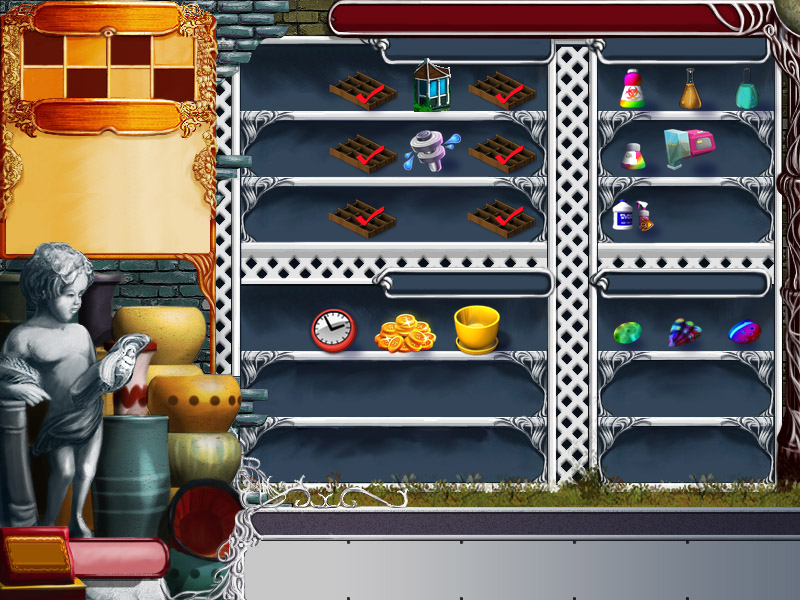
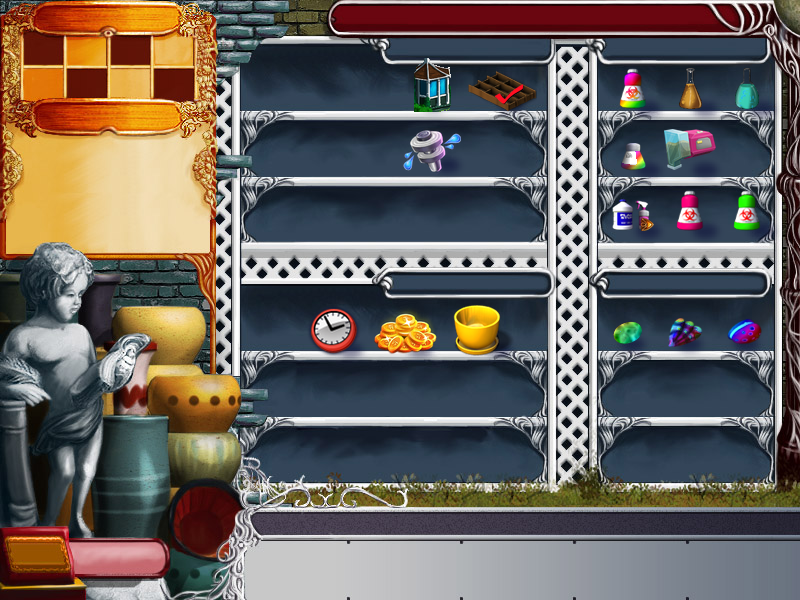
Extra Chemical Slots: the page arrows beside the Tools box, off its plaque

diff --git a/tests/test_chem_slots.py b/tests/test_chem_slots.py
@@ -55,8 +55,10 @@ SIDECAR = DOCS + "\\LDW\\Plant Tycoon\\Plant Tycoon Fix Patcher Data\\Extra Chem
 # Page 2: the same columns, row 1 drawn at y 126 (hit 136..184), row 2 at 173 (hit 185..253).
 COL_X = [2 + 45 * c for c in range(4)]
 ROW_Y = (126, 173)
-ARROW = (136, 104, 24, 24)               # x, y, w, h
-PAGE_TEXT = (100, 107)
+ARROW = (199, 178, 24, 24)               # the right arrow: x, y, w, h
+ARROW_LEFT = (0, 178, 24, 24)            # the left arrow, drawn
+ARROW_LEFT_HIT = (0, 178, 18, 24)        # and pressed: left of every tool and slot
+PAGE_TEXT = (201, 204)                   # under the right arrow
 
 
 def page1_point(i: int) -> tuple[int, int]:
@@ -467,13 +469,16 @@ class InstallTests(ChemSlotsCase):
 
 @_needs()
 class PageTests(ChemSlotsCase):
-    ARROW_POINTS = ((ARROW[0], ARROW[1]), (ARROW[0] + ARROW[2] - 1, ARROW[1] + ARROW[3] - 1), (148, 116))
+    ARROW_POINTS = ((ARROW[0], ARROW[1]), (ARROW[0] + ARROW[2] - 1, ARROW[1] + ARROW[3] - 1), (211, 190),
+                    (0, ARROW_LEFT[1]), (ARROW_LEFT_HIT[2] - 1, ARROW_LEFT[1] + ARROW_LEFT[3] - 1), (8, 190))
 
     def test_the_arrow_turns_the_page_and_shows_the_page_number(self) -> None:
         g = self.game()
         drawn = g.draw()
-        self.assertIn((SHEET_CHEMICALS, 38, ARROW[0], ARROW[1]), drawn)          # the right arrow on page 1
-        self.assertEqual([c[1][:3] for c in g.calls if c[0] == "text"], [("1/2", 101, 108), ("1/2", 100, 107)])
+        for frame, at in ((38, ARROW), (39, ARROW_LEFT)):                      # both arrows on page 1
+            self.assertIn((SHEET_CHEMICALS, frame, at[0], at[1]), drawn)
+        self.assertEqual([c[1][:3] for c in g.calls if c[0] == "text"],
+                         [("1/2", PAGE_TEXT[0] + 1, PAGE_TEXT[1] + 1), ("1/2", *PAGE_TEXT)])
         for x, y in self.ARROW_POINTS:
             with self.subTest(at=(x, y)):
                 g.calls.clear()
@@ -484,9 +489,11 @@ class PageTests(ChemSlotsCase):
         g = self.game()
         g.press(*self.ARROW_POINTS[2])
         drawn = g.draw()
-        self.assertIn((SHEET_CHEMICALS, 39, ARROW[0], ARROW[1]), drawn)          # the left arrow on page 2
+        for frame, at in ((38, ARROW), (39, ARROW_LEFT)):                      # and on page 2
+            self.assertIn((SHEET_CHEMICALS, frame, at[0], at[1]), drawn)
         self.assertEqual([c[1][0] for c in g.calls if c[0] == "text"], ["2/2", "2/2"])
-        for x, y in ((ARROW[0] - 1, 116), (ARROW[0] + ARROW[2], 116), (148, ARROW[1] - 1), (148, ARROW[1] + ARROW[3])):
+        for x, y in ((ARROW[0] - 1, 190), (ARROW[0] + ARROW[2], 190), (211, ARROW[1] - 1), (211, ARROW[1] + ARROW[3]),
+                     (ARROW_LEFT_HIT[2], 190), (8, ARROW_LEFT[1] - 1), (8, ARROW_LEFT[1] + ARROW_LEFT[3])):
             g.press(x, y)
             self.assertEqual(g.page(), 1, (x, y))
 
@@ -495,7 +502,7 @@ class PageTests(ChemSlotsCase):
         drawn = g.draw()
         self.assertFalse([d for d in drawn if d[1] in (38, 39)])
         self.assertFalse([c for c in g.calls if c[0] == "text"])
-        g.press(148, 116)
+        g.press(211, 190)
         self.assertEqual(g.page(), 0)
         self.assertTrue(g.tools_drawn())
 
@@ -503,12 +510,12 @@ class PageTests(ChemSlotsCase):
         g = self.game()
         self.assertTrue(g.tools_drawn())
         self.assertNotEqual(g.call("@tool_hit@16", 40, 150, ecx=g.scene) & 0xFFFFFFFF, 0xFFFFFFFF)   # the soil
-        g.press(148, 116)
+        g.press(211, 190)
         self.assertFalse(g.tools_drawn())
         for k in range(4):
             self.assertEqual(g.call("@tool_hit@16", 40 + 45 * k, 150, ecx=g.scene) & 0xFFFFFFFF, 0xFFFFFFFF)
         g.emu.write32(g.state + HELD, 2)                     # a tool in the hand stays there through the pages
-        g.press(148, 116)
+        g.press(211, 190)
         self.assertEqual((g.page(), g.held()), (0, 2))
 
     def test_page_two_draws_its_eight_slots_in_both_rows(self) -> None:
@@ -516,12 +523,12 @@ class PageTests(ChemSlotsCase):
         for e in range(8):
             g.put2(e, 27 + e, 1 + e)
         g.put(0, 36, 3)
-        g.press(148, 116)
+        g.press(211, 190)
         drawn = g.draw()
         for e in range(8):
             self.assertIn((SHEET_CHEMICALS, 2 * (27 + e) - 54, COL_X[e % 4], ROW_Y[e // 4]), drawn)
         self.assertNotIn((SHEET_CHEMICALS, 2 * 36 - 54, COL_X[0], 173), drawn)    # page 1's bottle is not
-        g.press(148, 116)
+        g.press(211, 190)
         drawn = g.draw()
         self.assertIn((SHEET_CHEMICALS, 2 * 36 - 54, COL_X[0], 173), drawn)
         self.assertFalse([d for d in drawn if d[1] == 2 * 27 - 54])
@@ -532,21 +539,21 @@ class PageTests(ChemSlotsCase):
         g.press(*page1_point(1))
         self.assertEqual(g.held(), 6)
         g.mouse(1, 100, 100)
-        g.mouse(1, 145, 110)                                 # onto the arrow
+        g.mouse(1, 210, 185)                                 # onto the arrow
         self.assertEqual(g.page(), 1)
-        g.mouse(1, 150, 115)                                 # still on it: no second turn
+        g.mouse(1, 212, 188)                                 # still on it: no second turn
         self.assertEqual(g.page(), 1)
         g.mouse(1, 120, 100)
-        g.mouse(1, 145, 110)                                 # off and on again: back
+        g.mouse(1, 210, 185)                                 # off and on again: back
         self.assertEqual(g.page(), 0)
         self.assertEqual(g.held(), 6)
         g.emu.write32(g.state + HELD, 0)
         g.mouse(1, 120, 100)
-        g.mouse(1, 145, 110)                                 # an empty hand only turns it by a click
+        g.mouse(1, 210, 185)                                 # an empty hand only turns it by a click
         self.assertEqual(g.page(), 0)
         g.emu.write32(g.state + HELD, 3)
         g.mouse(1, 120, 100)
-        g.mouse(1, 145, 110)                                 # nor does a tool
+        g.mouse(1, 210, 185)                                 # nor does a tool
         self.assertEqual(g.page(), 0)
 
 
@@ -603,7 +610,7 @@ class TrayTests(ChemSlotsCase):
                     page_one = g.tray()
                     e = (chemical - 27) % 8
                     g.put2(e, chemical, 2)
-                    g.press(148, 116)
+                    g.press(211, 190)
                     self.assertEqual(g.press(*page2_point(e)), 1)
                     k = g.held() - 5
                     self.assertIn(k, range(4))
@@ -624,7 +631,7 @@ class TrayTests(ChemSlotsCase):
         g = self.game()
         g.put(0, 27, 1)
         g.put2(5, 33, 4)
-        g.press(148, 116)
+        g.press(211, 190)
         g.press(*page2_point(5))
         k = g.held() - 5
         self.assertEqual(g.tray()[k], (33, 4))
@@ -643,7 +650,7 @@ class TrayTests(ChemSlotsCase):
             for k in range(4):
                 g.put(k, 27 + k, 1)
             g.put2(2, 36, 3)
-            g.press(148, 116)
+            g.press(211, 190)
             g.press(*page2_point(2))
             self.assertNotEqual(g.held(), 0)
             g.activate(on)
@@ -671,13 +678,13 @@ class MoveTests(ChemSlotsCase):
                     if there:
                         put(dst, *there)
                     if src_page2:
-                        g.press(148, 116)
+                        g.press(211, 190)
                         g.press(*page2_point(src - 4))
                     else:
                         g.press(*page1_point(src))
                     self.assertNotEqual(g.held(), 0)
                     if src_page2 != dst_page2:
-                        g.press(148, 116)                             # the arrow, the bottle still in hand
+                        g.press(211, 190)                             # the arrow, the bottle still in hand
                     g.calls.clear()
                     g.press(*(page2_point(dst - 4) if dst_page2 else page1_point(dst)))
                     self.assertEqual((g.held(), g.flying()), (0, -1))
@@ -693,7 +700,7 @@ class MoveTests(ChemSlotsCase):
         g = self.game()
         g.put(3, 29, 4)
         g.press(*page1_point(3))                              # picked up
-        g.press(148, 116)                                     # page 2, still held
+        g.press(211, 190)                                     # page 2, still held
         g.mouse(3, *page2_point(7))                           # released over page 2's last slot
         g.draw()
         self.assertEqual(g.held(), 0)
@@ -716,7 +723,7 @@ class TooltipTests(ChemSlotsCase):
         tips = g.visible_tips()
         self.assertEqual(tips, {(20, 173, 47, 253): "Chemical 30\n2 doses left",
                                 (110, 173, 137, 253): "Revival Potion\n1 dose left"})
-        g.press(148, 116)
+        g.press(211, 190)
         g.draw()
         self.assertEqual(g.visible_tips(), {(20, 136, 47, 184): "Radioactive Plant Formula\n3 doses left",
                                             (65, 185, 92, 253): "Chemical 27\n4 doses left"})
@@ -748,7 +755,7 @@ class SidecarTests(ChemSlotsCase):
         g.put(0, 27, 1)
         g.put2(1, 30, 2)
         g.put2(6, BOMB, 3)
-        g.press(148, 116)
+        g.press(211, 190)
         g.press(*page2_point(6))                              # held while the game saves
         k = g.held() - 5
         g.save(0)                                             # the settings file: no sidecar
@@ -1087,7 +1094,7 @@ class TrashTests(ChemSlotsCase):
                     g.put(k, 27 + k, 2)
                 g.put2(4, chemical, 3)
                 g.put2(5, 33, 1)
-                g.press(148, 116)
+                g.press(211, 190)
                 g.press(*page2_point(4))
                 g.calls.clear()
                 self.assertEqual(self.trash(g), 1)
@@ -1100,7 +1107,7 @@ class TrashTests(ChemSlotsCase):
     def test_the_games_own_chemicals_stay_in_the_hand(self) -> None:
         g = self.game()
         g.put2(2, 30, 3)
-        g.press(148, 116)
+        g.press(211, 190)
         g.press(*page2_point(2))
         held = g.held()
         self.assertEqual(self.trash(g), 0)
@@ -1266,8 +1273,10 @@ class ArtAndManifestTests(unittest.TestCase):
         rebuilt = B.formula_bottle(EXE.parent / "Images")
         self.assertEqual(rebuilt.tobytes(), sheet.tobytes())
 
-    def test_the_arrow_and_page_number_are_clear_of_everything(self) -> None:
+    def test_the_arrows_and_page_number_are_clear_of_everything(self) -> None:
         arrow = (ARROW[0], ARROW[1], ARROW[0] + ARROW[2] - 1, ARROW[1] + ARROW[3] - 1)
+        left = (ARROW_LEFT_HIT[0], ARROW_LEFT_HIT[1], ARROW_LEFT_HIT[0] + ARROW_LEFT_HIT[2] - 1,
+                ARROW_LEFT_HIT[1] + ARROW_LEFT_HIT[3] - 1)
         import render_extra_greenhouses_preview as RG
         size = RG.words(EXE.parent, EXE.read_bytes(), "2/2").size                    # in PTfontsmall, + shadow
         text = (PAGE_TEXT[0], PAGE_TEXT[1], PAGE_TEXT[0] + size[0], PAGE_TEXT[1] + size[1])
@@ -1276,10 +1285,11 @@ class ArtAndManifestTests(unittest.TestCase):
         seeds = [(21 + 43 * c, 30 + 34 * r, 64 + 43 * c, 64 + 34 * r) for c in range(4) for r in range(2)]   # 0x423A10
         side_arrows = [(220, 236, 269, 285)]                                             # Extra Greenhouses
         buttons = [(47, 293, 94, 330), (130, 287, 187, 324)]                              # 0x42614A, 0x42629C
-        for thing in (arrow, text):
+        for thing in (arrow, left, text):
             for other in tools + slots + seeds + side_arrows + buttons:
                 self.assertFalse(overlaps(thing, other), (thing, other))
         self.assertFalse(overlaps(arrow, text))
+        self.assertLess(ARROW_LEFT[0] + ARROW_LEFT[2], 25)                               # left of the soil's picture
 
     def test_the_setting(self) -> None:
         manifest = json.loads(MANIFEST.read_text(encoding="utf-8"))

diff --git a/native/ftfp_chem_slots/ftfp_chem_slots.c b/native/ftfp_chem_slots/ftfp_chem_slots.c
@@ -8,10 +8,10 @@
    byte, chemical id, doses), and a held chemical is state + 0x56C = 5 + its
    slot.  Once "Extra Chemical Slots" is bought on the store's Upgrades view
    (Store Upgrades and Items.dll, $10,000, $0 with Free upgrades), a small
-   gold arrow on the Tools box's plaque turns to page 2: eight more chemical
+   gold arrow on either side of the Tools box turns to page 2: eight more chemical
    slots in both rows of the grid (the tools stay on page 1; a tool already
-   in the hand stays there).  Clicking the arrow, or carrying a chemical over
-   it, turns the page back.  12 chemical slots in all.
+   in the hand stays there).  Clicking an arrow, or carrying a chemical over
+   one, turns the page back.  12 chemical slots in all.
 
    HOW.  Every page-2 slot is a stock slot while it is used: picking one up
    (0x4260A9, the press's tray hit) moves its record into a stock record --
@@ -93,14 +93,20 @@ static const int ROW_HIT_BOTTOM[2] = { 184, 253 };
 #define STOCK_HIT_BOTTOM 253
 #define FLIGHT_OFFSET 35                /* 0x4244C0 aims a bottle at its picture's place + 35 */
 
-/* The arrow: on the plaque between the seed tray (y <= 98) and the tools (y >= 136),
-   right of its middle, clear of its gold scrollwork; nothing else on the plaque takes a click. */
-#define ARROW_X 136
-#define ARROW_Y 104
+/* The arrows (the owner, 2026-10-31: beside the boxes, as Extra Greenhouses' are), one on each
+   side of the Tools box, vertically centred on its grid (y 136..253), drawn over the panel's gold
+   frame.  Left: x 0-23, pressed only at x 0-17, left of every tool (0x423AA0: from x 18) and slot
+   (from x 20); the soil's picture starts at x 25.  Right: x 199-222, right of the last tool (to
+   x 198), above Extra Greenhouses' left arrow (x 220-269 from y 236).  Either one turns the page.
+   The page number sits under the right arrow; the plaque keeps its "Tools". */
+#define ARROW_LEFT_X 0
+#define ARROW_LEFT_HIT_W 18
+#define ARROW_RIGHT_X 199
+#define ARROW_Y 178
 #define ARROW_W 24
 #define ARROW_H 24
-#define PAGE_TEXT_X 100                 /* "1/2" / "2/2" left of the arrow, on the plaque */
-#define PAGE_TEXT_Y 107
+#define PAGE_TEXT_X 201                 /* "1/2" / "2/2" under the right arrow */
+#define PAGE_TEXT_Y 204
 #define TEXT_WHITE 0xFFFFFFFFu
 #define TEXT_SHADOW 0xFF000000u
 
@@ -291,7 +297,9 @@ NOINLINE static int slot_at(int x, int y) {
 }
 
 static int in_arrow(int x, int y) {
-    return x >= ARROW_X && x < ARROW_X + ARROW_W && y >= ARROW_Y && y < ARROW_Y + ARROW_H;
+    if (y < ARROW_Y || y >= ARROW_Y + ARROW_H) return 0;
+    return (x >= ARROW_LEFT_X && x < ARROW_LEFT_X + ARROW_LEFT_HIT_W) ||
+           (x >= ARROW_RIGHT_X && x < ARROW_RIGHT_X + ARROW_W);
 }
 
 static int draw_x(int g) { return COL_DRAW_X(g < STOCK_SLOTS ? g : (g - STOCK_SLOTS) % STOCK_SLOTS); }
@@ -500,7 +508,7 @@ static void draw_bottle(char *scene, const chem_record *r, int x, int y) {
     draw_sprite(AT(scene, SC_SPRITES, void *), 0, SHEET_CHEMICALS, 2 * r->id - 54, x, y, 1.0f, 100, 1);
 }
 
-/* "1/2" or "2/2" left of the arrow, in the game's small font (PTfontsmall), white on a black
+/* "1/2" or "2/2" under the right arrow, in the game's small font (PTfontsmall), white on a black
    shadow as the greenhouse counts are written. */
 static void draw_page_number(void) {
     void *graphics = graphics_get();
@@ -533,8 +541,8 @@ NOINLINE static void __cdecl tray_draw(void *tray_obj, char *scene, int skip) {
             draw_bottle(scene, logical(state, STOCK_SLOTS + e), draw_x(STOCK_SLOTS + e), draw_y(STOCK_SLOTS + e));
         }
     }
-    draw_sprite(AT(scene, SC_SPRITES, void *), 0, SHEET_CHEMICALS, page == 0 ? ARROW_RIGHT_FRAME : ARROW_LEFT_FRAME,
-                ARROW_X, ARROW_Y, 1.0f, 100, 1);
+    draw_sprite(AT(scene, SC_SPRITES, void *), 0, SHEET_CHEMICALS, ARROW_LEFT_FRAME, ARROW_LEFT_X, ARROW_Y, 1.0f, 100, 1);
+    draw_sprite(AT(scene, SC_SPRITES, void *), 0, SHEET_CHEMICALS, ARROW_RIGHT_FRAME, ARROW_RIGHT_X, ARROW_Y, 1.0f, 100, 1);
     draw_page_number();
     refresh_tips(scene);
 }

diff --git a/src/game_mechanics_plant.py b/src/game_mechanics_plant.py
@@ -671,7 +671,7 @@ CHEMICALS = (
         "(0x4277A3, made the first time you point at that slot). The tray is "
         "shared by every greenhouse and shown in the store too.",
         patched=(("extra_chemical_slots", "once Extra Chemical Slots is bought on the store's Upgrades "
-                  "screen ($10,000), a gold arrow on the Tools box's plaque turns to a second page of 8 "
+                  "screen ($10,000), a gold arrow on either side of the Tools box turns to a second page of 8 "
                   "slots in both rows of the box (the tools stay on page 1): 12 chemical slots in all. "
                   "Buying stacks onto the same chemical on either page, else fills the first free slot "
                   "of page 1, then of page 2; the tray is full only when all 12 are. Every slot's "

diff --git a/scripts/build_chem_slots_assets.py b/scripts/build_chem_slots_assets.py
@@ -13,7 +13,7 @@ scale 1: the plant game's draw (0x4208F0) ignores its scale argument.
   standing on that line, inside the item's click rectangle (cell x 12..57, y 8..60).
 * Row 19, frames 38 and 39: the greenhouse's page arrows, the game's gold rightarrow.png and
   leftarrow.png (first frame, their 45 x 45 art) shrunk to ARROW_SIZE and set at the cell's top
-  left; Extra Chemical Slots.dll draws the cell at (136, 104), on the Tools box's plaque.
+  left; Extra Chemical Slots.dll draws them at (0, 178) and (199, 178), beside the Tools box.
 """
 
 from __future__ import annotations

diff --git a/README.md b/README.md
@@ -654,8 +654,9 @@ never needs the internet.
   Extra Chemical Slots item on the store's Upgrades screen (the chemicals
   shelf, under the Formula Bomb) costs $10,000 ($0 with Free upgrades), is
   bought once and gets a tick. Then a small gold arrow (the game's own,
-  shrunk) and "1/2" / "2/2" sit on the Tools box's wooden plaque: click the
-  arrow, or carry a chemical over it, to turn the page. The tools stay on
+  shrunk) sits on each side of the Tools box, with "1/2" / "2/2" under the
+  right one: click either arrow, or carry a chemical over one, to turn the
+  page. The tools stay on
   page 1; a tool already in your hand stays there. Every page-2 slot works
   like a stock one: the store fills a chemical onto its own bottle on either
   page, else the first free slot of page 1, then of page 2, and says the tray

diff --git a/CHANGELOG.md b/CHANGELOG.md
@@ -1,5 +1,12 @@
 # Changelog
 
+## Unreleased
+
+- **Extra Chemical Slots: the page arrows sit beside the Tools box**, one on
+  each side (as Extra Greenhouses' arrows sit beside the greenhouse), with
+  "1/2" / "2/2" under the right one, instead of on the box's "Tools" plaque
+  where they covered the word. Either arrow turns the page.
+
 ## v1.0.18
 
 - **Fixed: the patcher would not start** ("No module named 'cheat'") from the
